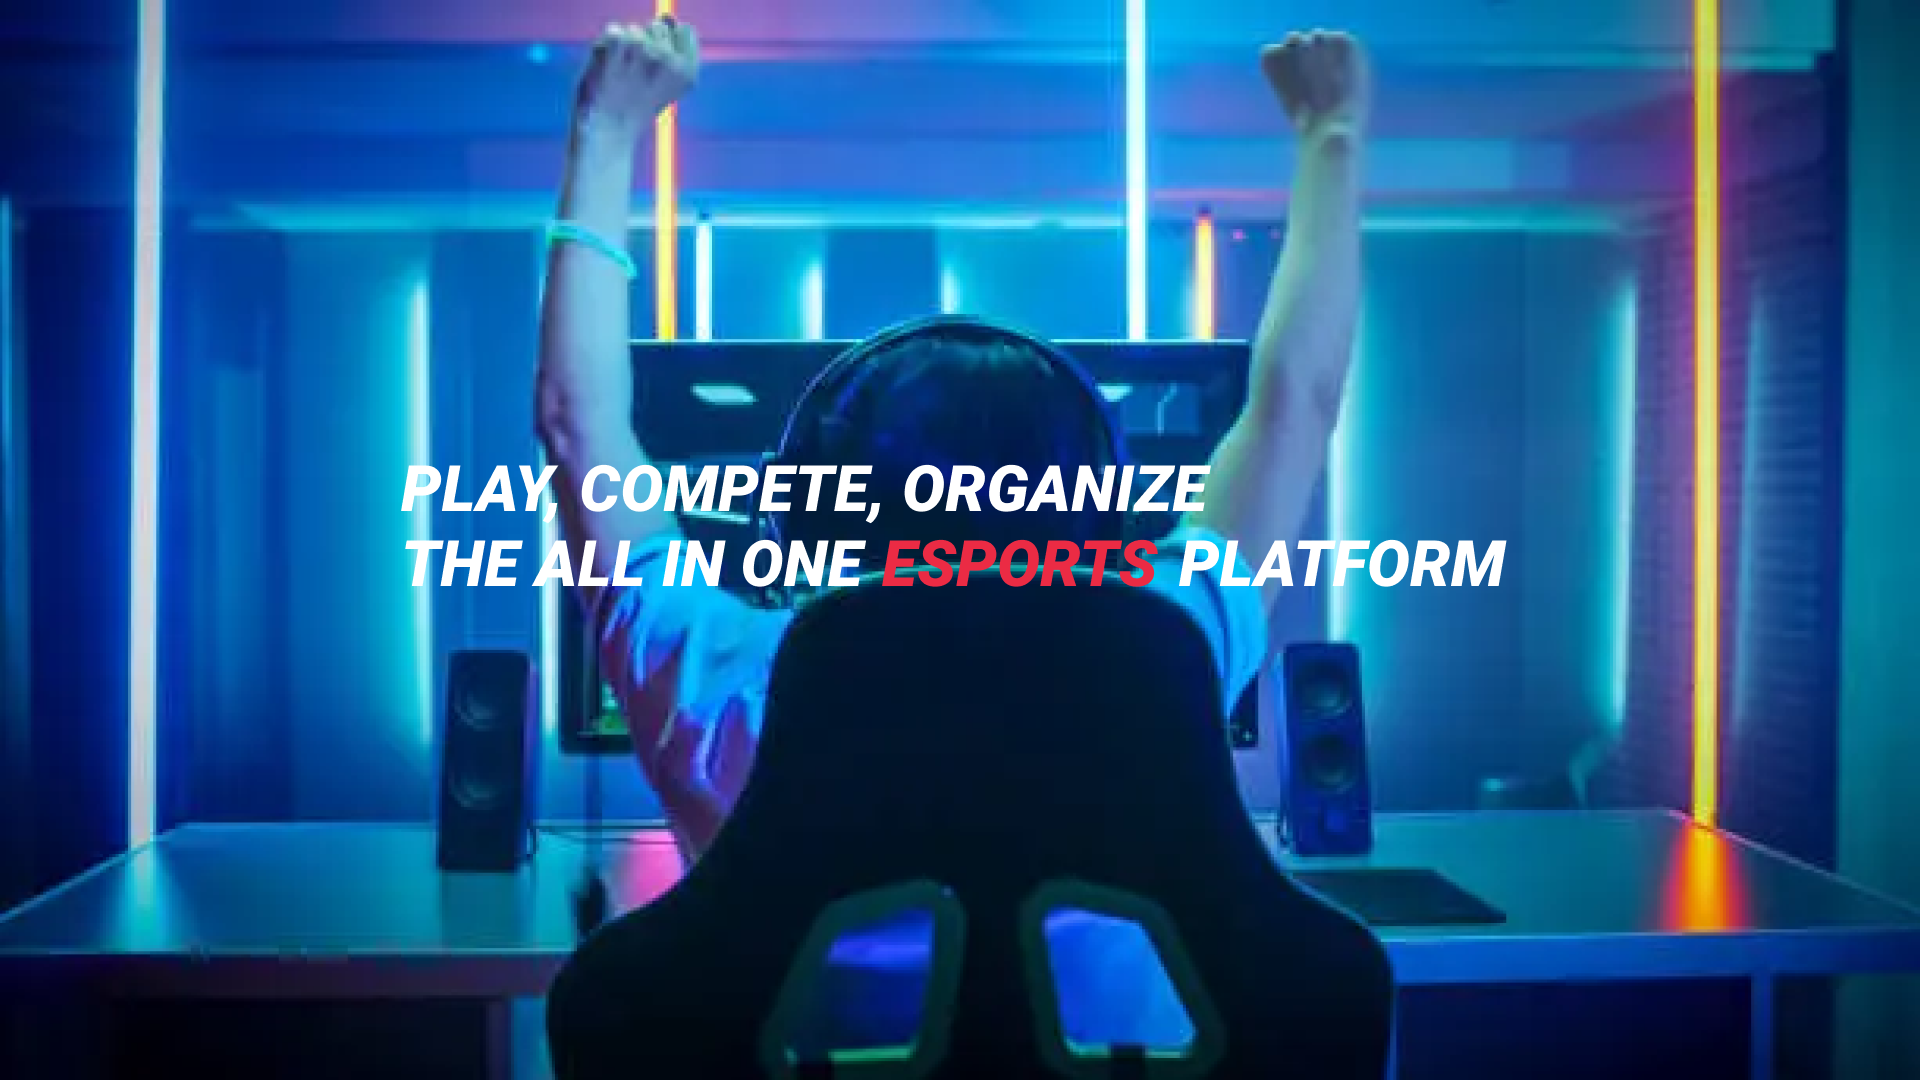
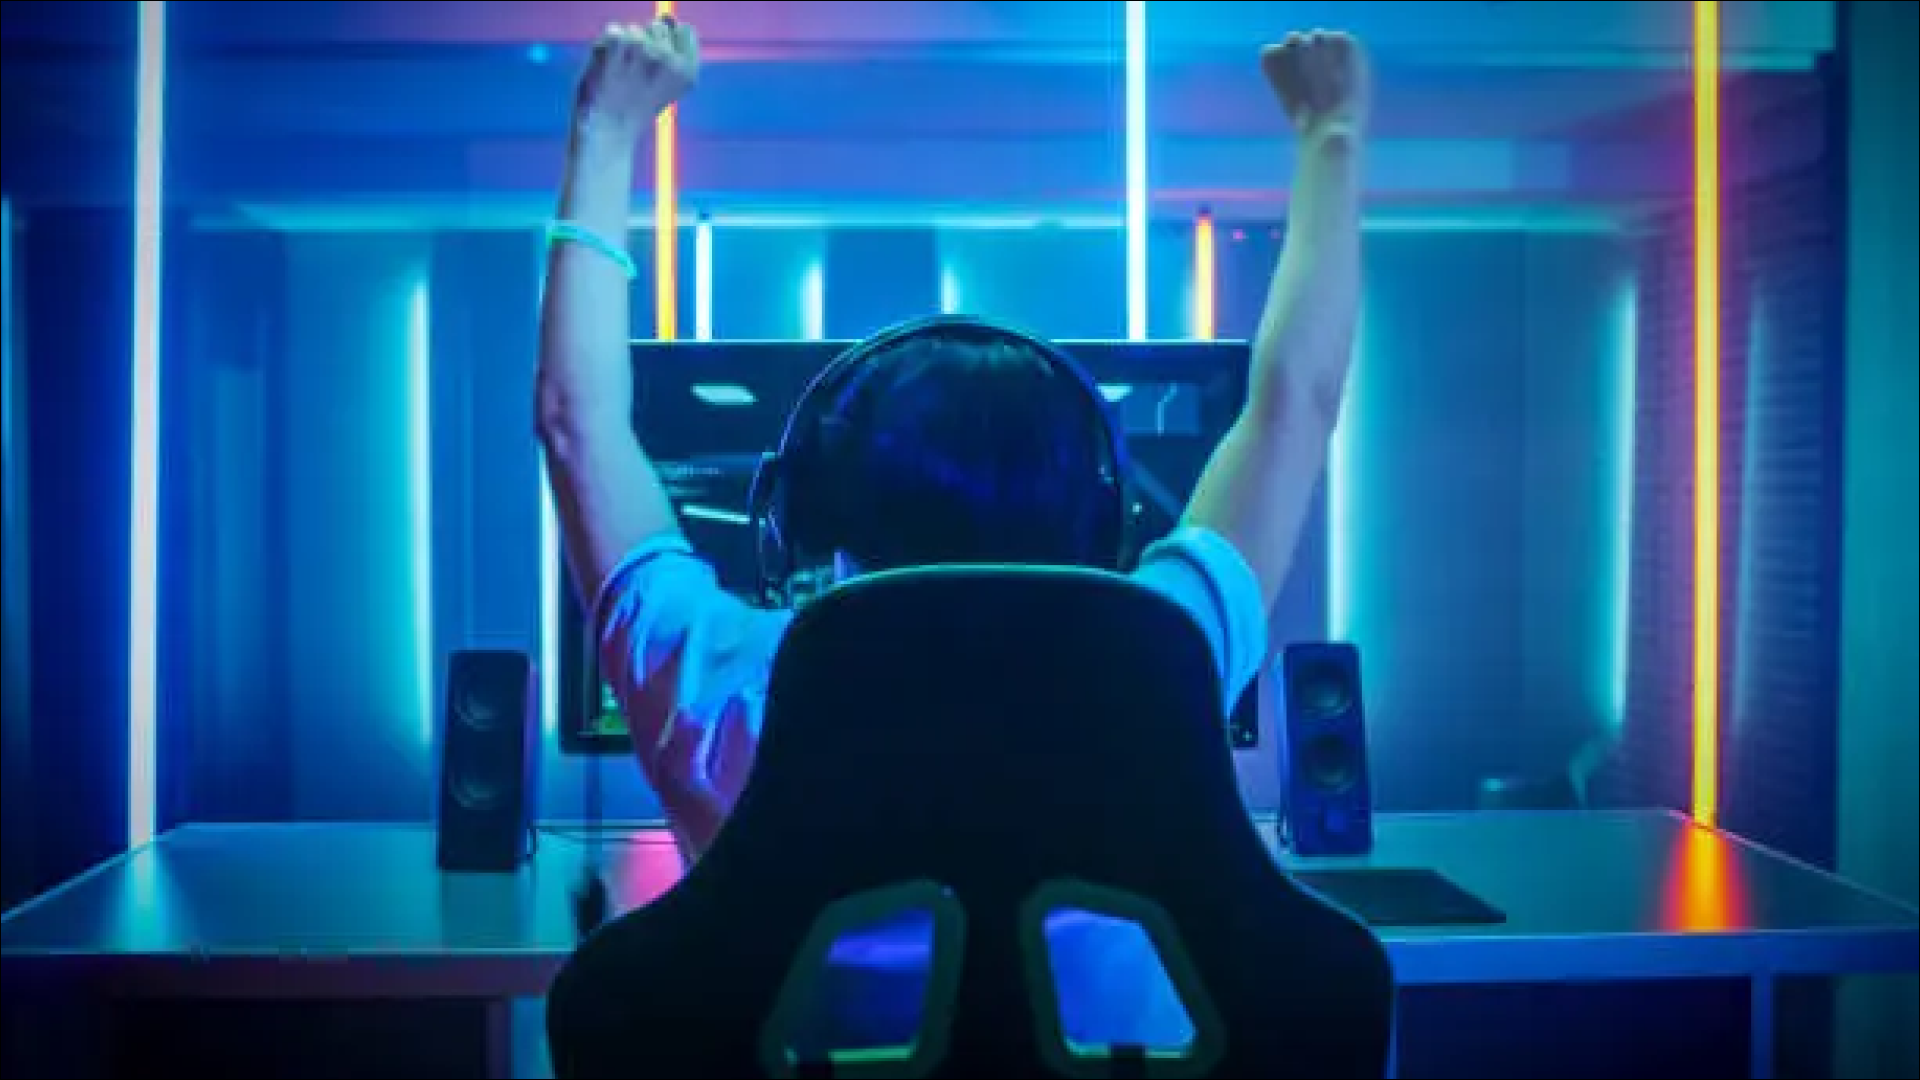
feat: delete unused assets

Changed region(s): [[0.1875, 0.4278, 0.7812, 0.55]]

diff --git a/components/Home/HomeComponent.js b/components/Home/HomeComponent.js
@@ -3,12 +3,11 @@ import FeaturedGame from "./FeaturedGame";
 import FeaturedTournament from "./FeaturedTournament";
 import Image from "next/image";
 import Hero from "../../public/Hero.png";
-import Hero2 from "../../public/Hero2.png";
 
 function HomeComponent({ data }) {
   return (
     <div>
-      <Image src={Hero2} alt="hero" layout="fill" placeholder="blur" />
+      <Image src={Hero} alt="hero" layout="fill" placeholder="blur" />
       <h1 className=" z-30 text-white text-2xl sm:text-4xl md:text-5xl w-full absolute top-1/2 text-center font-banger font-black">
         PLAY, COMPETE, ORGANIZE.
         <div className="text-center">

diff --git a/pages/users/[id].js b/pages/users/[id].js
@@ -9,7 +9,7 @@ export const getServerSideProps = async (context) => {
 
   let { id } = context.query;
 
-  if (id.includes("|")) id = id.split("|")[1]
+  if (id.includes("|")) id = id.split("|")[1];
 
   let projection = {};
 
@@ -18,9 +18,7 @@ export const getServerSideProps = async (context) => {
   }
 
   const { db } = await connectToDatabase();
-  const data = await db
-    .collection("users")
-    .findOne({ uid: id }, projection);
+  const data = await db.collection("users").findOne({ uid: id }, projection);
 
   console.log(data);
   if (!data) return { notFound: true };
